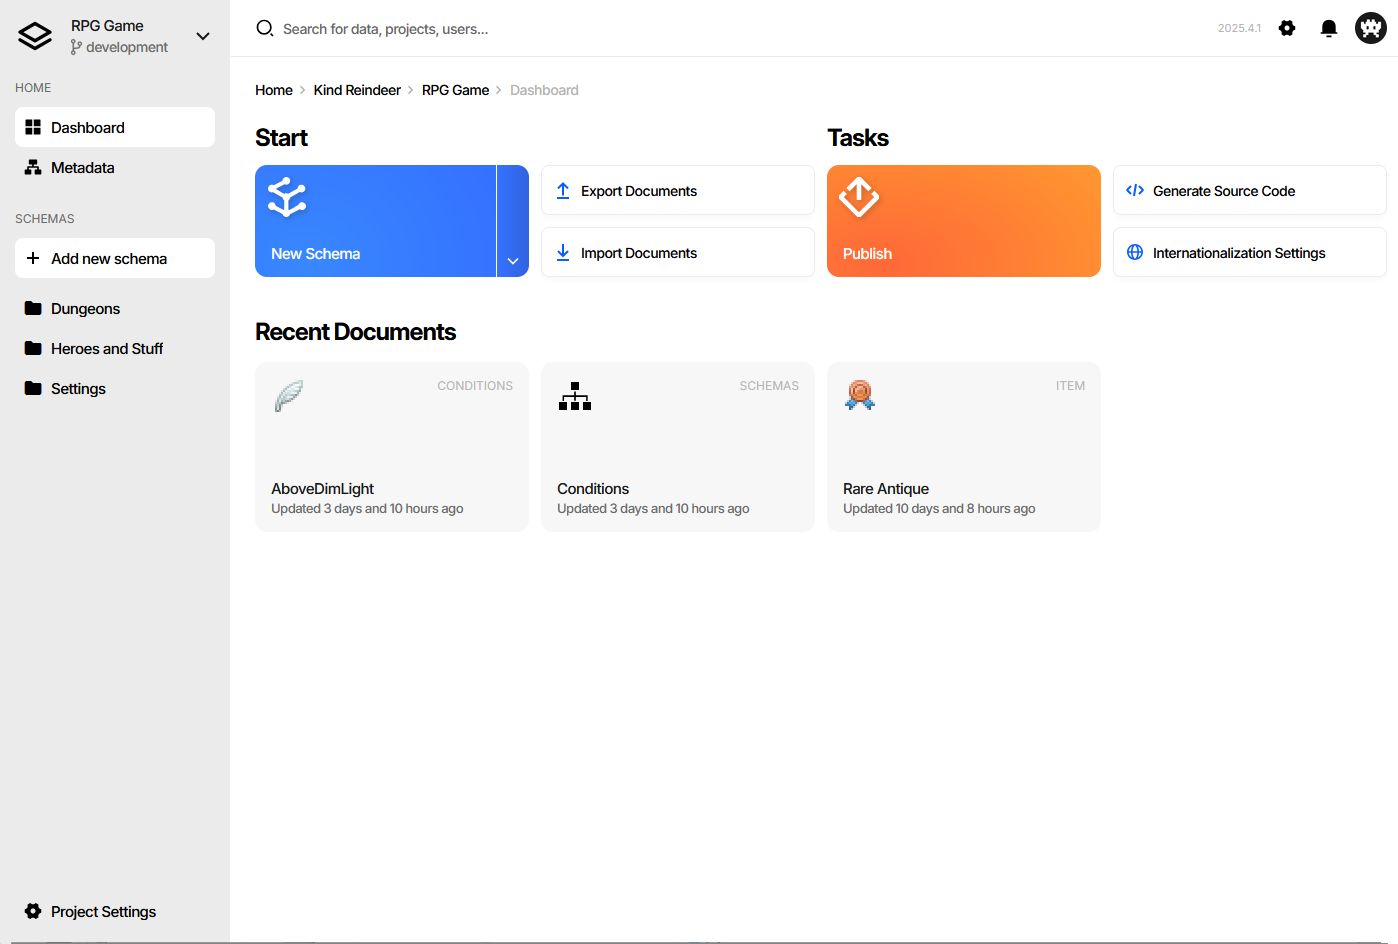
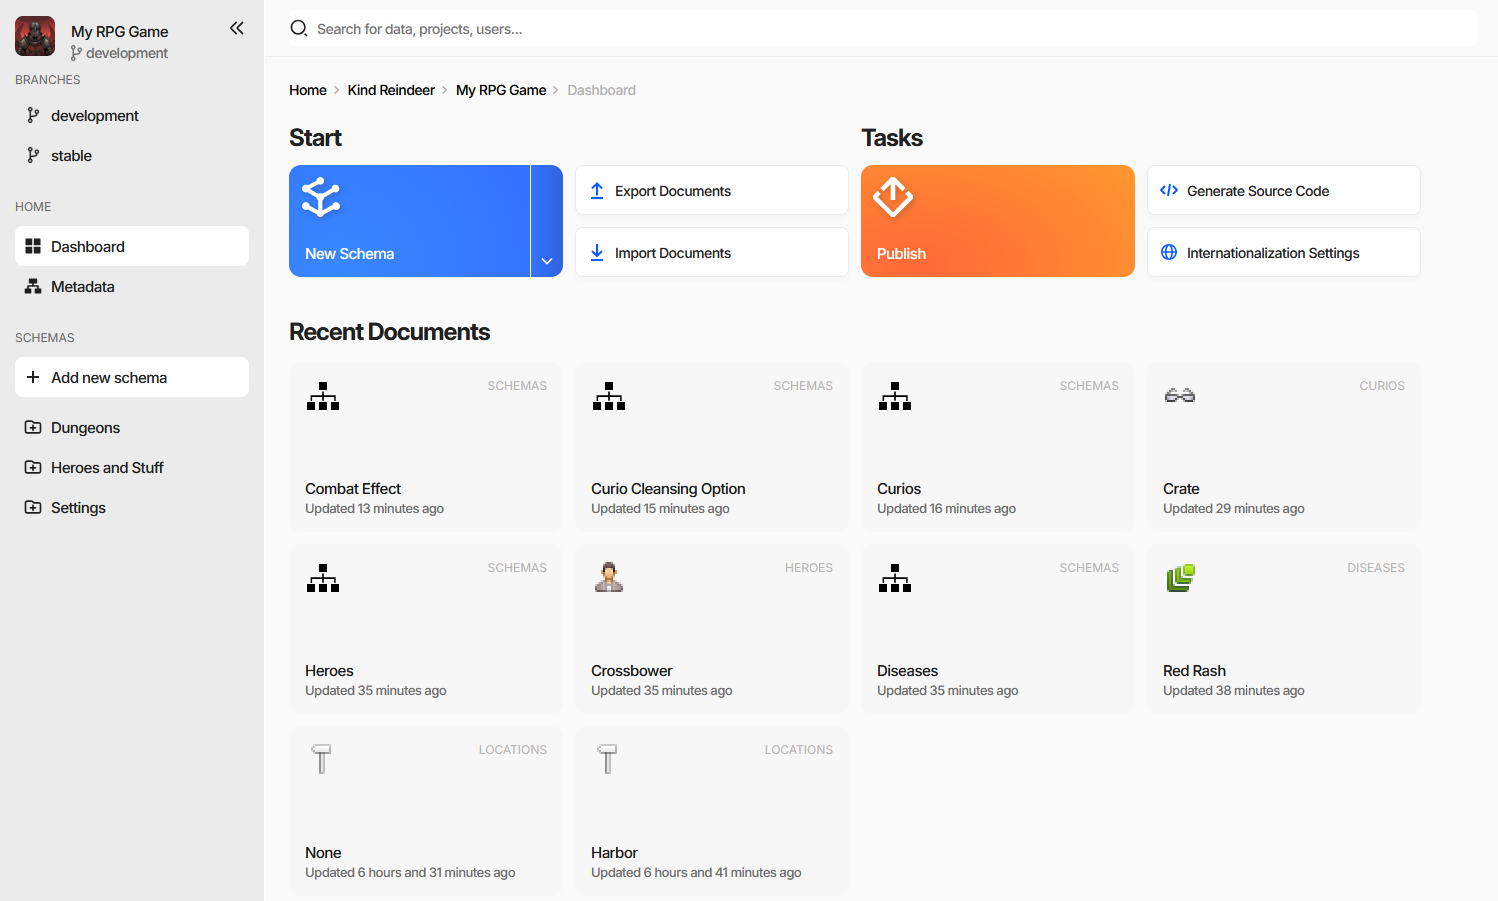
docs(basics,web): rewrite the UI tour and the two web edition pages
basics.rst becomes a tour of the editor chrome: the three regions, the side
navigation and its icon rail, the dashboard, global search, and the First Steps
guide, with the collection and form sections reduced to pointers now that both
have pages of their own. Their two stale figures are deleted and the dashboard
one re-shot.

permission_and_roles.rst replaces five repetitive bullet lists with a capability
matrix, the Members page, and the invite flow, and states that the four roles
are cumulative and map onto the view/edit/design/administer grants.

workspaces_and_projects.rst gains figures for the workspace cards, the branch
list, the branch action menu, and the create and push dialogs, plus a section on
managing branches from the editor. Corrected the invite steps - the dialog takes
an email only and the role is set afterwards, defaulting to Viewer - and the
create-project button label. Noted that a push stamps a game data version.

Removed two tips claiming documents can be dragged between collections; no
drag-and-drop handling exists in the collection grid or the side navigation.

diff --git a/docs/gamedata/basics.rst b/docs/gamedata/basics.rst
@@ -1,39 +1,114 @@
 Basic Navigation and User Interface Overview
 ============================================
 
-The UI consists of a left-side menu displaying all schemas of the game data, a middle working area with a dashboard/document list or document form, and a headline on the top with the project name and settings button. Depending on the installation, the UI may also include a user menu.  
+The editor is the same in every edition - the standalone application, the Unity and Unreal Engine plugins,
+and the web editor. This page is a tour of what is on the screen; the pages it links to explain the work
+done there.
+
+.. contents:: On this page
+   :local:
+   :depth: 2
+
+----
+
+The Editor Window
+-----------------
+
+.. figure:: ./dashboard.png
+
+Three regions, and they stay put:
+
+- **The side navigation** on the left - branches, the dashboard, and every schema in the project.
+- **The search field** across the top.
+- **The working area** in the middle - the dashboard, a document collection, or a document form, with a
+  breadcrumb above it that tracks where you are.
+
+----
+
+Side Navigation
+---------------
+
+From the top:
+
+- **The project** - its icon, its name, and the branch currently open.
+- **Branches** - the other branches of the project, one click to switch. Web editor only, see
+  :doc:`Workspaces, Projects, and Branches <../web/workspaces_and_projects>`.
+- **Home** - the **Dashboard**, and **Metadata**, which is the list of schemas.
+- **Schemas** - every schema that is visible in the menu, arranged into the folders its **Group** field
+  names, plus **Add new schema**.
+- **Project Settings** at the bottom.
+
+The ``«`` button collapses the whole panel to a narrow rail of icons, and ``»`` brings it back - worth doing
+on a laptop screen when a collection has many columns.
+
+----
 
 Dashboard
 ---------
 
-The dashboard is a central hub in the game data's user interface that provides quick access to frequently used features. It includes quick action buttons, such as creating a new schema, export, import, as well as a list of recently visited documents.  
-Additionally, in the case of a web application, the dashboard may display the presence of online members who are currently working in the same project.  
+The landing page of a project, and what the side navigation returns to.
 
-.. figure:: ./dashboard.png
+- **Start** - create a schema, export, import.
+- **Tasks** - publish, generate source code, internationalization settings.
+- **Recent Documents** - what you had open lately, newest first, each card naming the collection it belongs
+  to.
 
-Document Collection
--------------------
-The document collection page is place where user can view a list of all the documents of a specified schema. This page allows users to filter, sort, and customize the list to their liking, making it easier to find the specific document they need.  
+In the web editor the dashboard also shows which teammates are in the project at the same time.
 
-.. figure:: ./document_collection.png
+----
 
-Document Form
+Global Search
 -------------
-The document form page provides a specific edit form for a selected document. Here, users can view, edit, and save their game data documents in a structured and organized manner. The form allows users to input data into fields that correspond to the schema's properties. The document form page provides a user-friendly interface for updating and modifying game data.  
 
-.. figure:: ./document_form.png
+The field at the top searches the whole project rather than the current page.
+
+.. figure:: ./dashboard_side_minimized_with_search_result.png
+
+It matches documents on their display text **and** on their field values - the screenshot finds an item
+called *Rare Antique* and, separately, a ring whose *Rarity* field is set to *Rare*. Results are grouped by
+what they are, the header says how many were found, and the matched part of each hit is highlighted. In the
+web editor the same field also finds projects and users.
+
+Inside a collection the field narrows its scope to that collection and gains filtering; see
+:doc:`Finding Documents <filling_documents>`.
+
+.. note::
+   The screenshot also shows the side navigation collapsed to its icon rail.
+
+----
+
+First Steps
+-----------
+
+A new project opens with a guide docked to the right of the dashboard.
+
+.. figure:: ./dashboard_tutorial.png
+
+Five steps - create a schema, open and manage documents, generate source code, publish, load the game data -
+each ticked off as you do it, with the current one expanded into instructions. The header chevron collapses
+the card, **Skip Tutorial** dismisses it for good.
+
+----
+
+The Working Area
+----------------
+
+Selecting a schema in the side navigation opens its **document collection**, a grid of every document of
+that schema. Opening one of those documents replaces the grid with the **document form**.
+
+Those two screens are where nearly all the work happens, and each has a page of its own:
+:doc:`Filling Documents <filling_documents>` and :doc:`Editing a Document <document_form>`.
+
+----
 
 Tips and Keyboard Shortcuts
 ---------------------------
 
-A few useful interactions that are easy to miss:
-
-- **Duplicate a document** - hold :kbd:`Ctrl` and drag-and-drop the document within its
-  collection. Dropping without :kbd:`Ctrl` moves it instead.
-- **Copy between collections** - drag-and-drop a document into another collection of the same
-  schema type.
-- **Jump to a referenced document** - hold :kbd:`Ctrl` and click any reference value to open
-  the referenced document's edit form. This works on all references throughout the UI.
+- **Jump to a referenced document** - hold :kbd:`Ctrl` and click any reference value to open the referenced
+  document's form. This works on references throughout the UI.
+- **Move between documents without going back** - :kbd:`Alt/⌘+←` and :kbd:`Alt/⌘+→` walk the collection
+  from inside the form, filters and sorting included.
+- The collection grid and the document form have shortcuts of their own, listed on their pages.
 
 See also
 --------

diff --git a/docs/web/permission_and_roles.rst b/docs/web/permission_and_roles.rst
@@ -1,41 +1,133 @@
 Roles and Permissions
-========
+=====================
 
-The web version of the Charon provides a system of roles and permissions to manage access and control over your game development projects. 
-Each role is designed to provide specific levels of access and functionality within the platform. 
-Here are the key roles , along with their respective permissions:
+Access to a project in the web editor is granted per member, as one of four roles. The roles are cumulative:
+each one can do everything the roles above it can, plus more. Two further roles come from the workspace and
+are not assigned per project.
 
-Viewer Role:
- - View Documents: Users with the Viewer role can access and view documents within projects.
- - Export Data: Viewers can export data from the platform.
- - Access Project Settings: They can access and view project settings.
+.. contents:: On this page
+   :local:
+   :depth: 2
 
-Editor Role:
- - View Documents: Editors can view documents.
- - Edit Documents: Editors have the ability to edit documents within projects.
- - Import Data: They can import data into the platform.
- - Access Project Settings: Similar to Viewers, Editors can access and view project settings.
+----
 
-Designer Role:
- - Change Document Structure: Designers have the privilege to modify the structure of documents.
- - View Documents: Designers can view documents.
- - Edit Documents: They can edit documents.
- - Import Data: Designers can import data.
- - Access Project Settings: They can access and view project settings.
+Where Roles Are Assigned
+------------------------
 
-Administrator Role:
- - Make and Restore Backups: Administrators have the authority to create and restore backups of project data.
- - Grant or Revoke Permissions: They can grant or revoke permissions for users within the project.
- - Change Project Settings: Administrators can modify various project settings to tailor the environment to their needs.
- - View Documents: Administrators can view documents.
- - Edit Documents: They can edit documents.
- - Import Data: Administrators can import data.
+Open **Project Settings** → **Members**.
 
-Workspace Administrator and Workspace Owner Role:
- - They have the same permissions as Administrators, and they also have the ability to delete and transfer projects.
+.. figure:: ./project_members_window.png
+
+The **Access to the project** column is a drop-down per member - changing it takes effect immediately. The
+``...`` menu at the end of the row expels the member from the project.
+
+Only an **Administrator** can change roles or invite people. Workspace owners and workspace administrators
+are members of every project in the workspace automatically, and cannot be expelled or demoted from here.
+
+----
+
+What Each Role Can Do
+---------------------
+
+.. list-table::
+   :header-rows: 1
+   :widths: 40 12 12 12 12
+
+   * - Capability
+     - Viewer
+     - Editor
+     - Designer
+     - Admin
+   * - View documents
+     - yes
+     - yes
+     - yes
+     - yes
+   * - Export data
+     - yes
+     - yes
+     - yes
+     - yes
+   * - View project settings
+     - yes
+     - yes
+     - yes
+     - yes
+   * - Edit documents
+     - \-
+     - yes
+     - yes
+     - yes
+   * - Import data
+     - \-
+     - yes
+     - yes
+     - yes
+   * - Change document structure (schemas and properties)
+     - \-
+     - \-
+     - yes
+     - yes
+   * - Change project settings, including the game data version
+     - \-
+     - \-
+     - \-
+     - yes
+   * - Create and restore backups
+     - \-
+     - \-
+     - \-
+     - yes
+   * - Invite members and change their roles
+     - \-
+     - \-
+     - \-
+     - yes
+
+Delete or transfer a project is a workspace-level action, available to the **Workspace Owner** and to
+**Workspace Administrators** only. Within a project they have everything an Administrator has.
+
+.. note::
+   The four project roles map onto the permission levels the API and the CLI use - ``view``, ``edit``,
+   ``design``, and ``administer``. A feature that requires ``design`` is available to Designers and
+   Administrators, and so on.
+
+----
+
+Inviting a Member
+-----------------
+
+**Invite Member...** on the Members page asks for an email address.
+
+.. figure:: ./project_members_invite_member_window.png
+
+The invited person appears in the list right away with the invitation state next to them - *sent*,
+*email sent*, or *declined* - and picks up their role as soon as they accept. New members start as Viewers
+unless you change the drop-down.
+
+The number of members a project can have depends on the subscription plan; the page warns when the limit is
+reached.
+
+----
+
+Which Role to Give
+------------------
+
+- **Viewer** - people who need to read the data but not change it: QA, external partners, anyone consuming
+  an export.
+- **Editor** - the default for content work. Fills documents, imports spreadsheets, cannot change the shape
+  of the data.
+- **Designer** - the people who model the data. Adding a property or a schema affects everyone's generated
+  code, which is why it is a separate role rather than part of editing.
+- **Administrator** - a small number of people. Backups, restores, project settings, and the member list.
+
+----
 
 See also
 --------
 
+- :doc:`Workspaces, Projects, and Branches <workspaces_and_projects>`
 - :doc:`Overview <overview>`
+- :doc:`Backup and Restore <../advanced/backup_restore>`
+- :doc:`Publishing Game Data <../gamedata/publication>`
 - `Web-based Application <https://gamedevware.com?ref=documentation>`_

diff --git a/docs/web/workspaces_and_projects.rst b/docs/web/workspaces_and_projects.rst
@@ -22,6 +22,11 @@ Hierarchy
        ├── Branch  (e.g. develop)
        └── Branch  (e.g. feature-loot-rework)
 
+.. figure:: ./multiple_workspaces_and_projects.png
+
+The home page shows this as cards: one per workspace - personal or shared - listing the projects it holds
+and how many members each has.
+
 Workspace
 ^^^^^^^^^
 
@@ -58,20 +63,47 @@ Creating a Project
 ------------------
 
 1. Sign in to `charon.live <https://charon.live>`_.
-2. Open your workspace from the top navigation.
-3. Click **New Project** and choose a name.
-4. The project is created with a single ``main`` branch.
+2. Find your workspace on the home page.
+3. Click **Create Project** on the workspace card and choose a name.
+4. The project is created with a single branch, which is marked *Primary*.
 
 Inviting Collaborators
 ----------------------
 
 1. Open the project.
 2. Navigate to **Project Settings → Members**.
-3. Enter the invitee's email and choose a role.
-4. The invitee receives an email with a link to accept the invitation.
+3. Press **Invite Member...** and enter the person's email address.
+4. They receive an email with a link to accept the invitation, and appear in the list straight away with
+   their invitation state next to them.
+5. Set their role in the **Access to the project** column - new members start as Viewers.
 
-Available roles: Viewer, Editor, Designer, Administrator.
-See :doc:`permission_and_roles` for the full permission matrix.
+Available roles: Viewer, Editor, Designer, Administrator. Only an Administrator can invite members or change
+roles. See :doc:`Roles and Permissions <permission_and_roles>` for the full permission matrix and for the
+screenshots of both steps.
+
+----
+
+Managing Branches in the Editor
+-------------------------------
+
+**Project Settings** → **Branches** lists the branches of the project.
+
+.. figure:: ./workspaces_and_projects_branch_list.png
+
+*Primary* marks the branch a project cannot be without - it cannot be deleted - and *Current* marks the one
+open in the editor. A project is limited to three branches at the time of writing.
+
+**Create Branch...** asks only for a name:
+
+.. figure:: ./workspaces_and_projects_create_branch_window.png
+
+The ``...`` menu at the end of a row holds the rest:
+
+.. figure:: ./workspaces_and_projects_branch_action_menu.png
+
+**Switch to Branch** opens it in the editor, and is disabled on the branch already open. **Push Branch**
+copies data into another branch, see `How a push works`_. **Rename Branch** renames it, which changes the
+URL the CLI addresses it by. **Delete Branch** is disabled on the primary branch.
 
 ----
 
@@ -128,8 +160,15 @@ Three ways to trigger a push are available:
 
 **Web UI**
    Go to **Project Settings → Branches**, open the ``...`` menu next to the
-   source branch, and choose **Push Branch…**. Select the target branch from
-   the dropdown and confirm.
+   source branch, and choose **Push Branch**.
+
+   .. figure:: ./workspaces_and_projects_push_branch_window.png
+
+   Source and target are both drop-downs, so the direction can be corrected here, and the dialog names the
+   branch about to be overwritten in red. **Game Data Version** stamps a semantic version onto the source
+   branch as part of the push - the same field as
+   :doc:`Data Version <../gamedata/publication>` in the project settings, so a promotion and a version bump
+   are one action.
 
 **REST API**
    Send a ``PUT`` request to the branch endpoint with the destination branch
